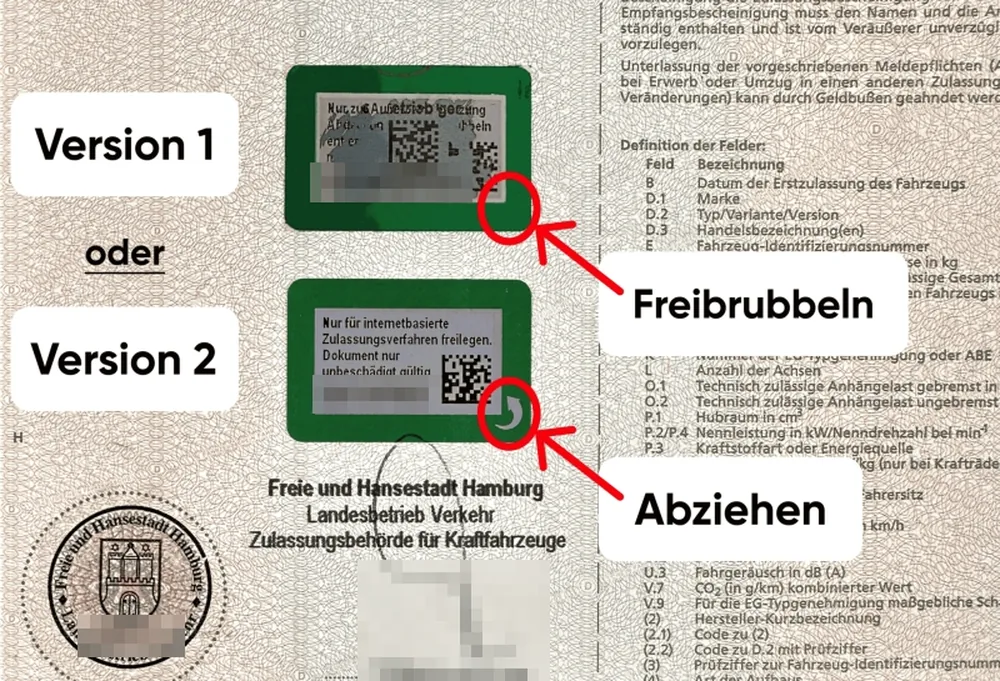
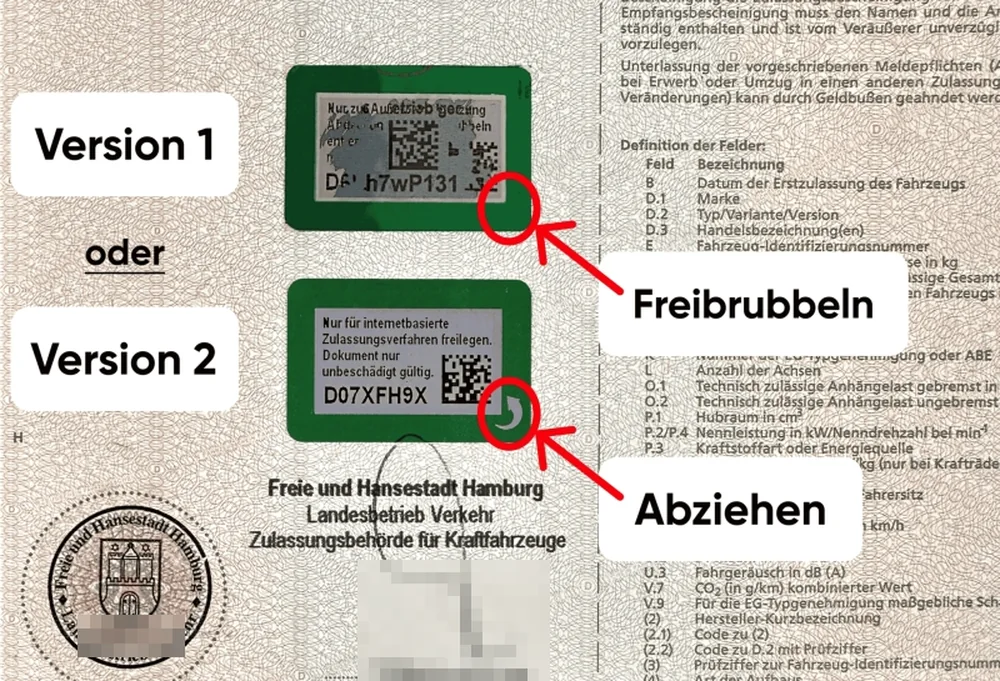
Sicherheitscodes im ZB1-Beispielfoto sichtbar lassen
Die Codefelder sind nicht mehr verpixelt, damit Kundinnen und Kunden
erkennen, wie so ein Code aussieht. Unterschrift und Nummer im
Behoerdensiegel bleiben abgedeckt. Die Bildunterschrift nennt jetzt
zutreffend, was unkenntlich gemacht wurde.

Claude-Session: https://claude.ai/code/session_011Cw6n7m4QjDu8gjgySbA35

Changed region(s): [[0.31, 0.2159, 0.465, 0.3084], [0.31, 0.5551, 0.434, 0.6167]]

diff --git a/index.html b/index.html
@@ -762,7 +762,7 @@
                    alt="Rückseite eines Fahrzeugscheins mit zwei Varianten des grünen Sicherheitscode-Felds, einmal zum Freirubbeln und einmal zum Abziehen">
             </a>
             <figcaption><b>Beispiel: Sicherheitscode im Fahrzeugschein (ZB1).</b> Je nach Ausgabe rubbeln Sie das grüne Feld frei oder ziehen den Aufkleber ab. Beide Varianten führen zum selben Code – bitte genau mit Groß- und Kleinschreibung abtippen.
-            <span class="lupe">Zum Vergrößern anklicken · Codes und Unterschrift sind in diesem Beispielfoto unkenntlich gemacht</span></figcaption>
+            <span class="lupe">Zum Vergrößern anklicken · Unterschrift und Siegelnummer sind in diesem Beispielfoto unkenntlich gemacht</span></figcaption>
           </figure>
         </div>
 
